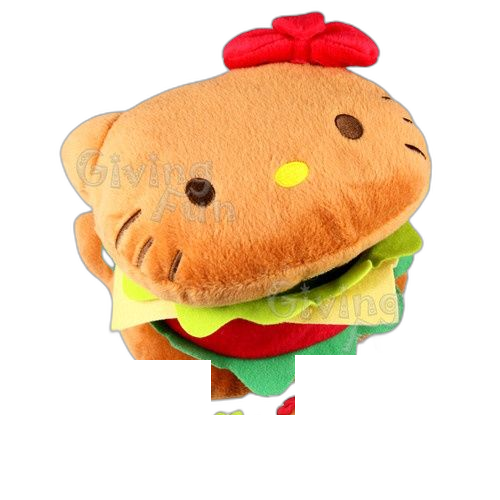
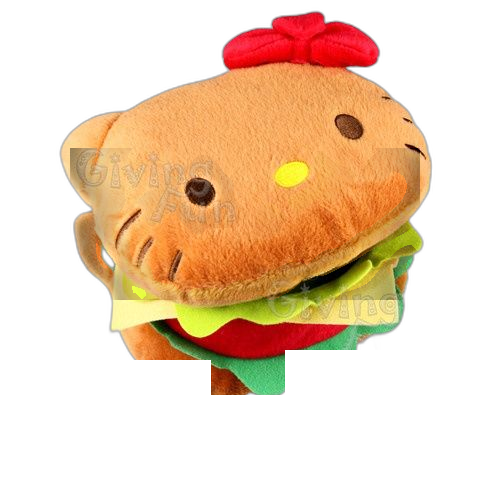
Add full character roster with Toca Boca illustrations from ChatGPT export
- 9 character Toca Boca illustrations extracted and added (HK, My Sweet Piano,
  Dear Daniel, My Melody, Cinnamoroll, Kuromi, Pochacco, Keroppi, Pompompurin)
- characters.html: complete rewrite with accurate lore from source ChatGPT stories
  (My Melody is Pochacco's ex + queen bee, correct friendships/relationships)
- Added My Sweet Piano and Dear Daniel as full character profiles
- index.html: home page now shows 6 characters with Toca illustrations
- css/style.css: toca-img and card-toca styles for full-body illustrations
- burger-plushie.png: watermark reduction attempt applied

Claude-Session: https://claude.ai/code/session_012X3JZiVqhXTuwU4ss1CF3f

diff --git a/characters.html b/characters.html
@@ -30,28 +30,32 @@
       <div class="container">
         <div class="character-list">
 
+          <!-- ── HELLO KITTY ────────────────────────────── -->
           <article class="character-card" id="hello-kitty">
             <!-- top deco strip -->
             <div class="hk-top-strip">
-              <img src="images/deco-backpack.png"   alt="" class="hk-strip-item" style="height:75px;transform:rotate(10deg)"/>
-              <img src="images/hk-items-nobg.png"   alt="" class="hk-strip-item" style="height:110px;transform:rotate(-3deg)"/>
+              <img src="images/deco-backpack.png" alt="" class="hk-strip-item" style="height:75px;transform:rotate(10deg)"/>
+              <img src="images/hk-items-nobg.png" alt="" class="hk-strip-item" style="height:110px;transform:rotate(-3deg)"/>
             </div>
             <div class="hk-body">
               <div class="hk-left">
-                <div class="character-img-placeholder"><img src="images/hello-kitty.png" alt="Hello Kitty" /></div>
+                <div class="character-img-placeholder">
+                  <img src="images/hk-toca.jpg" alt="Hello Kitty" />
+                </div>
                 <div class="hk-plushie">
-                  <img src="images/burger-plushie.svg" alt="Hello Kitty Burger Plushie" class="hk-plushie-img"/>
+                  <img src="images/burger-plushie.png" alt="Hello Kitty Burger Plushie" class="hk-plushie-img"/>
                 </div>
               </div>
               <div class="character-info">
                 <h2>Hello Kitty</h2>
-                <p class="character-role">New Student · The Heart of the Group</p>
-                <p>Hello Kitty just transferred to Sanrio High alongside her best friends Dear Daniel and My Sweet Piano, and adjusting hasn't been easy. Making new friends is a struggle — she's got a temper that flares and a roar that surprises people. But underneath all of that is one of the kindest hearts you'll ever find. She's the glue that holds her whole crew together, even when she doesn't realize it.</p>
+                <p class="character-role">New Transfer Student · The Heart of the Group</p>
+                <p>Hello Kitty just transferred to Sanrio High alongside her lifelong best friends My Sweet Piano and Dear Daniel. Adjusting hasn't been easy — she's got a temper that flares and a roar that surprises people. But underneath all of that is one of the kindest hearts you'll ever find. She's the glue that holds her whole crew together, even when she doesn't realize it.</p>
                 <ul class="character-details">
-                  <li><strong>Best friends:</strong> Dear Daniel, My Sweet Piano</li>
+                  <li><strong>Best friends:</strong> My Sweet Piano, Dear Daniel</li>
+                  <li><strong>Crush:</strong> Pochacco (soccer team captain)</li>
+                  <li><strong>Rival:</strong> My Melody</li>
                   <li><strong>Favorite subject:</strong> Math Batsu</li>
                   <li><strong>Favorite colors:</strong> Red, blue & white</li>
-                  <li><strong>Crush:</strong> Pochacco (soccer team captain)</li>
                   <li><strong>Favorite food:</strong> Double cheeseburger with salted spicy fries</li>
                   <li><strong>Favorite drink:</strong> Frappuccino</li>
                 </ul>
@@ -69,72 +73,140 @@
             </div>
           </article>
 
+          <!-- ── MY SWEET PIANO ────────────────────────── -->
+          <article class="character-card" id="my-sweet-piano">
+            <div class="character-img-placeholder toca-img">
+              <img src="images/my-sweet-piano.jpg" alt="My Sweet Piano" />
+            </div>
+            <div class="character-info">
+              <h2>My Sweet Piano</h2>
+              <p class="character-role">Hello Kitty's Best Friend · The Energetic One</p>
+              <p>My Sweet Piano has been Hello Kitty's best friend since first grade. She is endlessly cheerful, talks to almost everyone she meets, and can get excited over almost anything. She had a habit of making friends within minutes, even if she had just met someone. And yes — she will forget her water bottle every single day.</p>
+              <ul class="character-details">
+                <li><strong>Best friend:</strong> Hello Kitty</li>
+                <li><strong>Personality:</strong> Energetic, crafty, warm, a little chaotic</li>
+                <li><strong>Known for:</strong> Packing way too many snacks</li>
+              </ul>
+            </div>
+          </article>
+
+          <!-- ── DEAR DANIEL ───────────────────────────── -->
+          <article class="character-card" id="dear-daniel">
+            <div class="character-img-placeholder toca-img">
+              <img src="images/dear-daniel.jpg" alt="Dear Daniel" />
+            </div>
+            <div class="character-info">
+              <h2>Dear Daniel</h2>
+              <p class="character-role">Hello Kitty's Best Friend · The Calm One</p>
+              <p>Dear Daniel has been Hello Kitty's best friend since middle school. He's calm, easygoing, and usually the one keeping everyone on schedule. Unlike Piano, Daniel never tries too hard to impress anyone. He showed up on the first day of Sanrio High in his baby blue compact car, ready to drive the group to wherever the story was headed.</p>
+              <ul class="character-details">
+                <li><strong>Best friend:</strong> Hello Kitty</li>
+                <li><strong>Personality:</strong> Calm, dependable, charming, shy</li>
+                <li><strong>Signature:</strong> Baby blue compact car</li>
+              </ul>
+            </div>
+          </article>
+
+          <!-- ── POCHACCO ───────────────────────────────── -->
+          <article class="character-card" id="pochacco">
+            <div class="character-img-placeholder toca-img">
+              <img src="images/pochacco.jpg" alt="Pochacco" />
+            </div>
+            <div class="character-info">
+              <h2>Pochacco</h2>
+              <p class="character-role">Soccer Team Captain · School Heartthrob</p>
+              <p>Pochacco is the chill athletic heartthrob of Sanrio High — the kind of person everyone notices the moment he walks into a room. He's My Melody's ex, which makes things complicated now that Hello Kitty is on the scene. Hello Kitty caught a glimpse of him on her first day and couldn't look away. He's interested in her too. My Melody noticed.</p>
+              <ul class="character-details">
+                <li><strong>Circle:</strong> Badtz-Maru, Keroppi, Pompompurin</li>
+                <li><strong>Ex:</strong> My Melody</li>
+                <li><strong>Personality:</strong> Chill, athletic, quietly charming</li>
+              </ul>
+            </div>
+          </article>
+
+          <!-- ── MY MELODY ─────────────────────────────── -->
           <article class="character-card" id="my-melody">
-            <div class="character-img-placeholder">🐰</div>
+            <div class="character-img-placeholder toca-img">
+              <img src="images/my-melody.jpg" alt="My Melody" />
+            </div>
             <div class="character-info">
               <h2>My Melody</h2>
-              <p class="character-role">Baking Club President · Year 3</p>
-              <p>Sweet, gentle, and always baking something delicious. My Melody fills the school with the smell of fresh pastries and warm smiles every single day.</p>
+              <p class="character-role">School Queen Bee · Pochacco's Ex</p>
+              <p>My Melody is the queen bee of Sanrio High — polished, popular, and not used to losing anything she considers hers. She broke up with Pochacco, but she definitely noticed when he started paying attention to the new transfer student. Her response to finding Hello Kitty's open locker on the first day? A quiet "Oh...nothing." To be continued.</p>
               <ul class="character-details">
-                <li><strong>Club:</strong> Baking Club</li>
-                <li><strong>Favorite subject:</strong> Home Economics</li>
-                <li><strong>Best friend:</strong> Hello Kitty</li>
+                <li><strong>Ex:</strong> Pochacco</li>
+                <li><strong>Rival:</strong> Hello Kitty</li>
+                <li><strong>Personality:</strong> Sweet on the surface, calculating underneath</li>
               </ul>
             </div>
           </article>
 
-          <article class="character-card" id="cinnamoroll">
-            <div class="character-img-placeholder">🐶</div>
-            <div class="character-info">
-              <h2>Cinnamoroll</h2>
-              <p class="character-role">Art Club Star · Year 2</p>
-              <p>Cinnamoroll is dreamy, quiet, and loves floating on clouds — literally. His art pieces always end up on the school bulletin board, and he blushes every single time.</p>
-              <ul class="character-details">
-                <li><strong>Club:</strong> Art Club</li>
-                <li><strong>Favorite subject:</strong> Art</li>
-                <li><strong>Best friend:</strong> Pompompurin</li>
-              </ul>
-            </div>
-          </article>
-
+          <!-- ── KUROMI ─────────────────────────────────── -->
           <article class="character-card" id="kuromi">
-            <div class="character-img-placeholder">🖤</div>
+            <div class="character-img-placeholder toca-img">
+              <img src="images/kuromi.jpg" alt="Kuromi" />
+            </div>
             <div class="character-info">
               <h2>Kuromi</h2>
-              <p class="character-role">Drama Club Lead · Year 3</p>
-              <p>Kuromi may act tough, but she secretly writes the most heartfelt diary entries and has a soft spot for cute things she'd never admit to. The stage is her kingdom.</p>
+              <p class="character-role">Drama Club Lead · Badtz-Maru's Girlfriend</p>
+              <p>Kuromi acts tough, but she secretly writes the most heartfelt diary entries and has a soft spot for cute things she'd never admit to. She and Badtz-Maru are dating — a pairing that makes perfect sense once you know them. The stage is her kingdom, and anyone who challenges that will find out quickly.</p>
               <ul class="character-details">
+                <li><strong>Dating:</strong> Badtz-Maru</li>
                 <li><strong>Club:</strong> Drama Club</li>
                 <li><strong>Favorite subject:</strong> Theatre</li>
-                <li><strong>Best friend:</strong> My Melody (rivalry turned friendship)</li>
+                <li><strong>Personality:</strong> Edgy exterior, soft interior</li>
               </ul>
             </div>
           </article>
 
+          <!-- ── CINNAMOROLL ───────────────────────────── -->
+          <article class="character-card" id="cinnamoroll">
+            <div class="character-img-placeholder toca-img">
+              <img src="images/cinnamoroll.jpg" alt="Cinnamoroll" />
+            </div>
+            <div class="character-info">
+              <h2>Cinnamoroll</h2>
+              <p class="character-role">Art Club Star · Pompompurin's Best Friend</p>
+              <p>Cinnamoroll is dreamy, gentle, and always seems slightly elsewhere — but in the best way. Her art pieces always end up on the school bulletin board, and she blushes every single time someone points it out. Her and Pompompurin are inseparable in the way only true best friends can be.</p>
+              <ul class="character-details">
+                <li><strong>Best friend:</strong> Pompompurin</li>
+                <li><strong>Club:</strong> Art Club</li>
+                <li><strong>Favorite subject:</strong> Art</li>
+                <li><strong>Personality:</strong> Dreamy, gentle, creative</li>
+              </ul>
+            </div>
+          </article>
+
+          <!-- ── POMPOMPURIN ────────────────────────────── -->
           <article class="character-card" id="pompompurin">
-            <div class="character-img-placeholder">🍮</div>
+            <div class="character-img-placeholder toca-img">
+              <img src="images/pompompurin.jpg" alt="Pompompurin" />
+            </div>
             <div class="character-info">
               <h2>Pompompurin</h2>
-              <p class="character-role">Sports Team Captain · Year 2</p>
-              <p>Laid-back and lovable, Pompompurin somehow always ends up napping at the exact moment he's needed — yet always shows up for his team when it counts.</p>
+              <p class="character-role">Pochacco's Circle · Cinnamoroll's Best Friend</p>
+              <p>Laid-back and lovable, Pompompurin somehow always ends up napping at the exact moment he's needed — yet always shows up for his friends when it counts. He's part of Pochacco's main circle alongside Badtz-Maru and Keroppi, and best friends with Cinnamoroll in the way that just makes sense.</p>
               <ul class="character-details">
-                <li><strong>Club:</strong> Track & Field</li>
-                <li><strong>Favorite subject:</strong> P.E.</li>
                 <li><strong>Best friend:</strong> Cinnamoroll</li>
+                <li><strong>Circle:</strong> Pochacco, Badtz-Maru, Keroppi</li>
+                <li><strong>Personality:</strong> Chill, loyal, always somehow asleep</li>
               </ul>
             </div>
           </article>
 
+          <!-- ── KEROPPI ─────────────────────────────────── -->
           <article class="character-card" id="keroppi">
-            <div class="character-img-placeholder">🐸</div>
+            <div class="character-img-placeholder toca-img">
+              <img src="images/keroppi.jpg" alt="Keroppi" />
+            </div>
             <div class="character-info">
               <h2>Keroppi</h2>
-              <p class="character-role">Science Club Star · Year 1</p>
-              <p>Energetic and curious, Keroppi is the first one to raise his hand in class and the last one to leave the science lab. His enthusiasm is completely contagious.</p>
+              <p class="character-role">Science Club · Pochacco's Circle</p>
+              <p>Energetic and curious, Keroppi is the first one to raise his hand in class and the last one to leave the science lab. His enthusiasm is completely contagious. He's part of Pochacco's main circle and somehow manages to be friends with absolutely everyone at Sanrio High.</p>
               <ul class="character-details">
+                <li><strong>Circle:</strong> Pochacco, Badtz-Maru, Pompompurin</li>
                 <li><strong>Club:</strong> Science Club</li>
-                <li><strong>Favorite subject:</strong> Biology</li>
-                <li><strong>Best friend:</strong> Everyone</li>
+                <li><strong>Personality:</strong> Energetic, curious, contagiously enthusiastic</li>
               </ul>
             </div>
           </article>

diff --git a/index.html b/index.html
@@ -41,22 +41,32 @@
         <h2 class="section-title">Featured Characters</h2>
         <div class="card-grid">
           <a href="characters.html#hello-kitty" class="card">
-            <div class="card-img-placeholder"><img src="images/hello-kitty.png" alt="Hello Kitty" style="width:100%;height:100%;object-fit:cover;border-radius:50%;display:block;"/></div>
+            <div class="card-img-placeholder card-toca"><img src="images/hk-toca.jpg" alt="Hello Kitty"/></div>
             <h3>Hello Kitty</h3>
             <p>Heart of the Group</p>
           </a>
-          <a href="characters.html#my-melody" class="card">
-            <div class="card-img-placeholder">🐰</div>
-            <h3>My Melody</h3>
-            <p>Baking Club President</p>
+          <a href="characters.html#my-sweet-piano" class="card">
+            <div class="card-img-placeholder card-toca"><img src="images/my-sweet-piano.jpg" alt="My Sweet Piano"/></div>
+            <h3>My Sweet Piano</h3>
+            <p>The Energetic One</p>
           </a>
-          <a href="characters.html#cinnamoroll" class="card">
-            <div class="card-img-placeholder">🐶</div>
-            <h3>Cinnamoroll</h3>
-            <p>Art Club Star</p>
+          <a href="characters.html#dear-daniel" class="card">
+            <div class="card-img-placeholder card-toca"><img src="images/dear-daniel.jpg" alt="Dear Daniel"/></div>
+            <h3>Dear Daniel</h3>
+            <p>The Calm One</p>
+          </a>
+          <a href="characters.html#my-melody" class="card">
+            <div class="card-img-placeholder card-toca"><img src="images/my-melody.jpg" alt="My Melody"/></div>
+            <h3>My Melody</h3>
+            <p>School Queen Bee</p>
+          </a>
+          <a href="characters.html#pochacco" class="card">
+            <div class="card-img-placeholder card-toca"><img src="images/pochacco.jpg" alt="Pochacco"/></div>
+            <h3>Pochacco</h3>
+            <p>Soccer Team Captain</p>
           </a>
           <a href="characters.html#kuromi" class="card">
-            <div class="card-img-placeholder">🖤</div>
+            <div class="card-img-placeholder card-toca"><img src="images/kuromi.jpg" alt="Kuromi"/></div>
             <h3>Kuromi</h3>
             <p>Drama Club Lead</p>
           </a>

diff --git a/css/style.css b/css/style.css
@@ -236,6 +236,23 @@ img {
   margin-bottom: 0.75rem;
 }
 
+.card-img-placeholder.card-toca {
+  width: 120px;
+  height: 160px;
+  margin: 0 auto 0.75rem;
+  background: transparent;
+  border-radius: 0;
+  overflow: hidden;
+}
+
+.card-img-placeholder.card-toca img {
+  width: 100%;
+  height: 100%;
+  object-fit: contain;
+  display: block;
+  border-radius: 0;
+}
+
 .card h3 {
   font-size: 1.1rem;
   font-weight: 700;
@@ -284,6 +301,23 @@ img {
   height: 140px;
   object-fit: cover;
   border-radius: 50%;
+  display: block;
+}
+
+/* Toca Boca full-body illustrations — taller, no circular crop */
+.character-img-placeholder.toca-img {
+  background: transparent;
+  border-radius: var(--radius);
+  width: 160px;
+  height: 220px;
+  overflow: visible;
+}
+
+.character-img-placeholder.toca-img img {
+  width: 160px;
+  height: 220px;
+  object-fit: contain;
+  border-radius: 0;
   display: block;
 }
 
